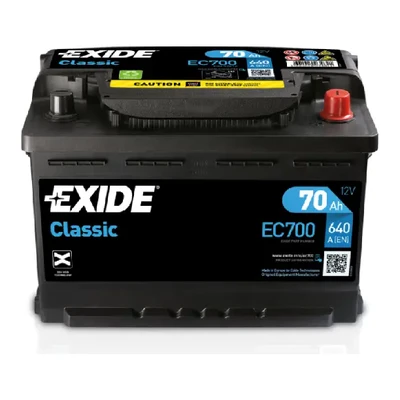
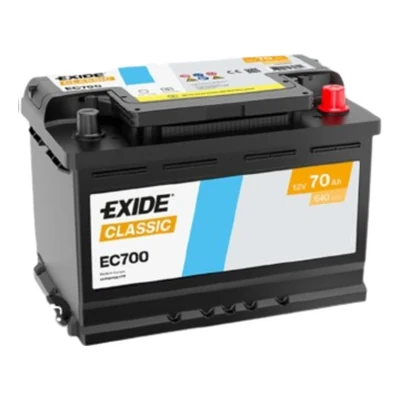
EXIDE : nouvelles photos (EC550, EB705, EC700, EL800, EL1000) + retrait des 3 Marine Dual sans prix
- Remplace 5 photos EXIDE voiture par les visuels de la gamme actuelle
  (livree grise/bleue) fournis par la boutique : EC550, EB705, EC700,
  EL800, EL1000. Recadrees sur fond blanc en 400x400 webp, comme les
  autres photos du catalogue.
- Retire la pastille loupe incrustee en bas a gauche de la photo EL800.
- Supprime les 3 EXIDE Marine Dual (EP500 / EP600 / EP800) de la
  categorie Bateau : elles n'avaient pas de prix et s'affichaient
  « ?? Dh ». Leurs photos sont supprimees aussi.

Claude-Session: https://claude.ai/code/session_01UbCYiDhGBYKx2jaPDPY8s7

diff --git a/src/data/catalogue.js b/src/data/catalogue.js
@@ -254,10 +254,6 @@ export const vehicles = [
       { id: 'ba_e23', brand: 'VARTA', model: 'E23 D26 M10D', ah: 70, v: 12, cca: 570, dim: '260 × 173 × 225 mm', price: 1380, fits: 'Bateau, dual purpose · D26', photo: '/batteries/catv18.webp' },
       { id: 'ba_e24', brand: 'VARTA', model: 'E24 D26R M10G', ah: 70, v: 12, cca: 570, dim: '260 × 173 × 225 mm', price: 1299, fits: 'Démarrage marine · D26 (borne à droite)', photo: '/batteries/catv19.webp' },
       { id: 'ba_n70', brand: 'VARTA', model: 'N70 EFB', ah: 70, v: 12, cca: 720, dim: '306 × 173 × 225 mm', price: 2000, fits: 'Bateau, dual purpose · D26', photo: '/batteries/catv8.webp' },
-      // EXIDE Marine & Leisure (Dual) — démarrage + servitude. Prix à confirmer.
-      { id: 'ba_ep500', brand: 'EXIDE', model: 'Marine Dual EP500 50Ah', ah: 50, v: 12, cca: 800, dim: '207 × 175 × 190 mm', price: null, fits: 'Bateau, camping-car — démarrage + servitude (Dual)', photo: '/batteries/exc_ep500.webp' },
-      { id: 'ba_ep600', brand: 'EXIDE', model: 'Marine Dual EP600 70Ah', ah: 70, v: 12, cca: 760, dim: '278 × 175 × 190 mm', price: null, fits: 'Bateau, camping-car — démarrage + servitude (Dual)', photo: '/batteries/exc_ep600.webp' },
-      { id: 'ba_ep800', brand: 'EXIDE', model: 'Marine Dual EP800 95Ah', ah: 95, v: 12, cca: 850, dim: '353 × 175 × 190 mm', price: null, fits: 'Bateau, camping-car — démarrage + servitude (Dual)', photo: '/batteries/exc_ep800.webp' },
     ],
   },
   {
